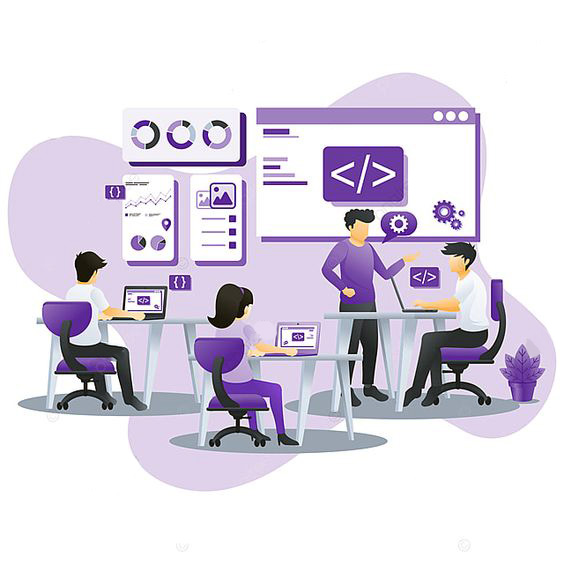
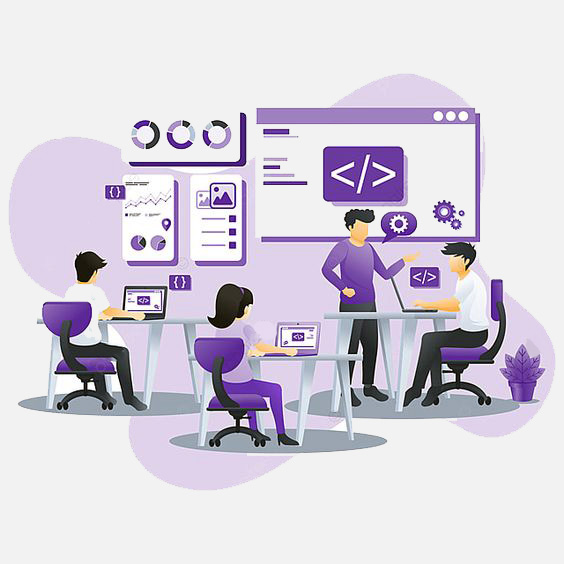
add new styles

diff --git a/src/styles.scss b/src/styles.scss
@@ -1,3 +1,46 @@
 /* You can add global styles to this file, and also import other style files */
 
 $landingBackgroundImage: "../assets/images/backgrounds/landingPage.jpg";
+// Definición de variables con los colores obtenidos de la imagen de landing
+$color-primary: #6A3FA6;
+$color-secondary: #997EBF;
+$color-background: #F2F2F2;
+$color-accent-1: #E7DCF2;
+$color-accent-2: #6136BF;
+
+// Estilos globales
+body {
+  background-color: $color-background;
+}
+
+a {
+  color: $color-primary;
+  text-decoration: none;
+}
+
+a:hover {
+  color: $color-accent-1;
+}
+
+button {
+  background-color: $color-primary;
+  color: #fff;
+  border: none;
+  padding: 10px 20px;
+  cursor: pointer;
+  border-radius: 4px;
+}
+
+.button-secondary {
+  background-color: $color-secondary;
+}
+
+.button-accent {
+  background-color: $color-accent-1;
+}
+
+/* Otros estilos utilizando los colores de la paleta */
+/* ... */
+
+html, body { height: 100%; }
+body { margin: 0; font-family: Roboto, "Helvetica Neue", sans-serif; }

diff --git a/src/app/pages/landing/landing.component.html b/src/app/pages/landing/landing.component.html
@@ -2,18 +2,16 @@
 
 <div class="container">
   <div class="letf-container">
-    <h1>
+    <h1>Welcome</h1>
+    <h3>
       Explore the World of Code with Me. 🚀 Discover my passion for programming
       and innovation as I showcase my projects and skills. Let's make tech magic
       together! 💻✨
-    </h1>
-    <button (click)="goToHome()">go to the home</button>
+    </h3>
+    <button mat-button (click)="goToHome()">Resume Overview</button>
   </div>
   <div class="background-container">
     <img src="/../assets/images/backgrounds/landingPage.jpg" alt="" />
   </div>
 </div>
-
-<div style="background-color: aquamarine; height: 100px; margin: 0">
-  footbar
-</div>
+<app-footer></app-footer>

diff --git a/src/app/pages/landing/landing.component.scss b/src/app/pages/landing/landing.component.scss
@@ -1,7 +1,9 @@
 .background-container {
+  display: flex;
+  justify-content: center;
   position: relative;
-  width: 100%;
-  height: 1025px; 
+  width: 90%;
+  height: 700px; 
   overflow: hidden;
   flex: 2;
 }
@@ -10,8 +12,8 @@
   position: absolute;
   top: 0;
   left: 0;
-  width: 100%;
-  height: 100%;
+  width: 70%;
+  height: 70%;
   object-fit: cover;
   z-index: -1; /* Coloca la imagen detrás del contenido */
 }
@@ -24,6 +26,7 @@
 .container{
   display: flex;
   justify-content: center;
+  margin-top: 100px;
 }
 
 .letf-container{
@@ -31,5 +34,5 @@ flex: 1;
 flex-direction: column;
 display: flex;
 justify-content: center;
-padding: 0 20px ;
+padding: 0 200px ;
 }

diff --git a/src/app/pages/landing/landing.module.ts b/src/app/pages/landing/landing.module.ts
@@ -3,6 +3,8 @@ import { CommonModule } from '@angular/common';
 import { LandingRoutingModule } from './landing-routing.module';
 import { LandingComponent } from './landing.component';
 import { BreadcumbModule } from 'src/app/components/breadcumb/breadcumb.module';
+import { FooterComponent } from 'src/app/components/footer/footer.component';
+import { FooterModule } from 'src/app/components/footer/footer.module';
 
 
 
@@ -14,6 +16,7 @@ import { BreadcumbModule } from 'src/app/components/breadcumb/breadcumb.module';
     CommonModule,
     LandingRoutingModule,
     BreadcumbModule,
+    FooterModule,
   ]
 })
 export class LandingModule { }

diff --git a/src/index.html b/src/index.html
@@ -8,8 +8,11 @@
     <link rel="icon" type="image/x-icon" href="favicon.ico" />
     <link rel="stylesheet" href="https://unpkg.com/@clr/ui/clr-ui.min.css" />
     <link rel="stylesheet" href="path/to/node_modules/@clr/ui/clr-ui.min.css" />
-  </head>
-  <body>
+      <link rel="preconnect" href="https://fonts.gstatic.com">
+    <link href="https://fonts.googleapis.com/css2?family=Roboto:wght@300;400;500&display=swap" rel="stylesheet">
+    <link href="https://fonts.googleapis.com/icon?family=Material+Icons" rel="stylesheet">
+</head>
+  <body class="mat-typography">
     <app-root></app-root>
   </body>
 </html>

diff --git a/src/app/app.module.ts b/src/app/app.module.ts
@@ -4,6 +4,7 @@ import { AppComponent } from './app.component';
 import { AppRoutingModule } from './app-routing.module';
 import { BreadcumbComponent } from './components/breadcumb/breadcumb.component';
 import { NotFoundComponent } from './pages/not-found/not-found.component';
+import { BrowserAnimationsModule } from '@angular/platform-browser/animations';
 
 
 
@@ -15,6 +16,7 @@ import { NotFoundComponent } from './pages/not-found/not-found.component';
   imports: [
     BrowserModule,
     AppRoutingModule,
+    BrowserAnimationsModule,
  
   ],
   providers: [],

diff --git a/src/app/components/breadcumb/breadcumb.module.ts b/src/app/components/breadcumb/breadcumb.module.ts
@@ -1,13 +1,14 @@
 import { NgModule } from '@angular/core';
 import { CommonModule } from '@angular/common';
 import { BreadcumbComponent } from './breadcumb.component';
-
+import {MatButtonModule} from '@angular/material/button';
 
 
 @NgModule({
   declarations: [BreadcumbComponent],
   imports: [
     CommonModule,
+    MatButtonModule,
   ],
   exports:[BreadcumbComponent]
 })

diff --git a/src/app/components/breadcumb/breadcumb.component.html b/src/app/components/breadcumb/breadcumb.component.html
@@ -1,1 +1,1 @@
-<div style="background-color: aqua; height: 100px">this is my head</div>
+<div class="container">hola</div>

diff --git a/src/app/components/breadcumb/breadcumb.component.scss b/src/app/components/breadcumb/breadcumb.component.scss
@@ -1,0 +1,5 @@
+
+.container{
+    background-color:  #6A3FA6;
+    height: 100px;
+}

diff --git a/src/app/components/footer/footer.component.scss b/src/app/components/footer/footer.component.scss
@@ -1,0 +1,5 @@
+
+.container{
+    background-color:#E7DCF2;;
+    height: 200px;
+}

diff --git a/src/app/components/footer/footer.component.html b/src/app/components/footer/footer.component.html
@@ -1,1 +1,1 @@
-<p>footer works!</p>
+<div class="container"></div>
